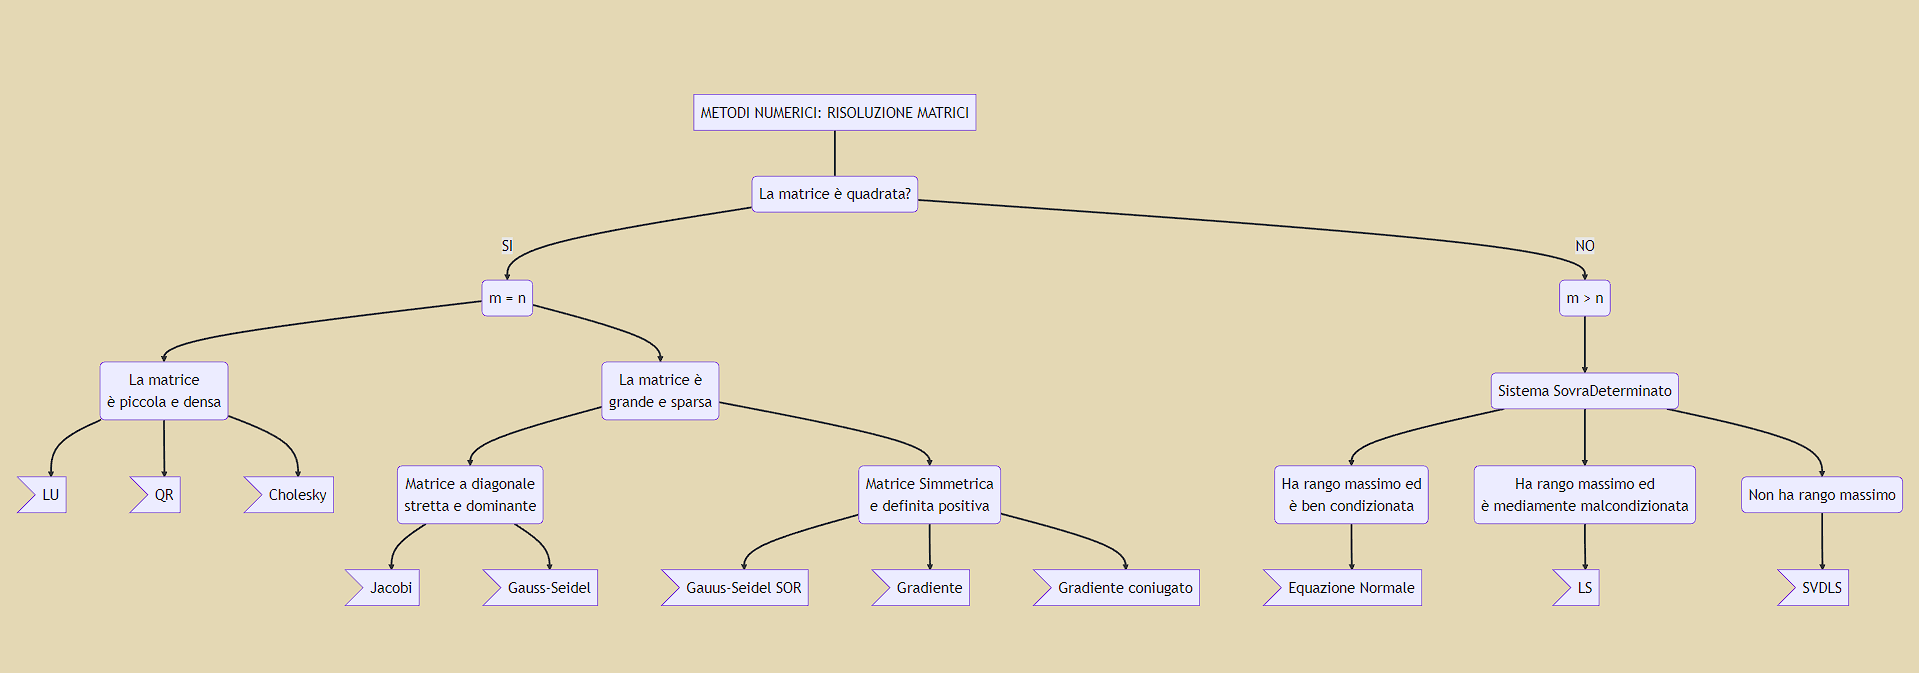
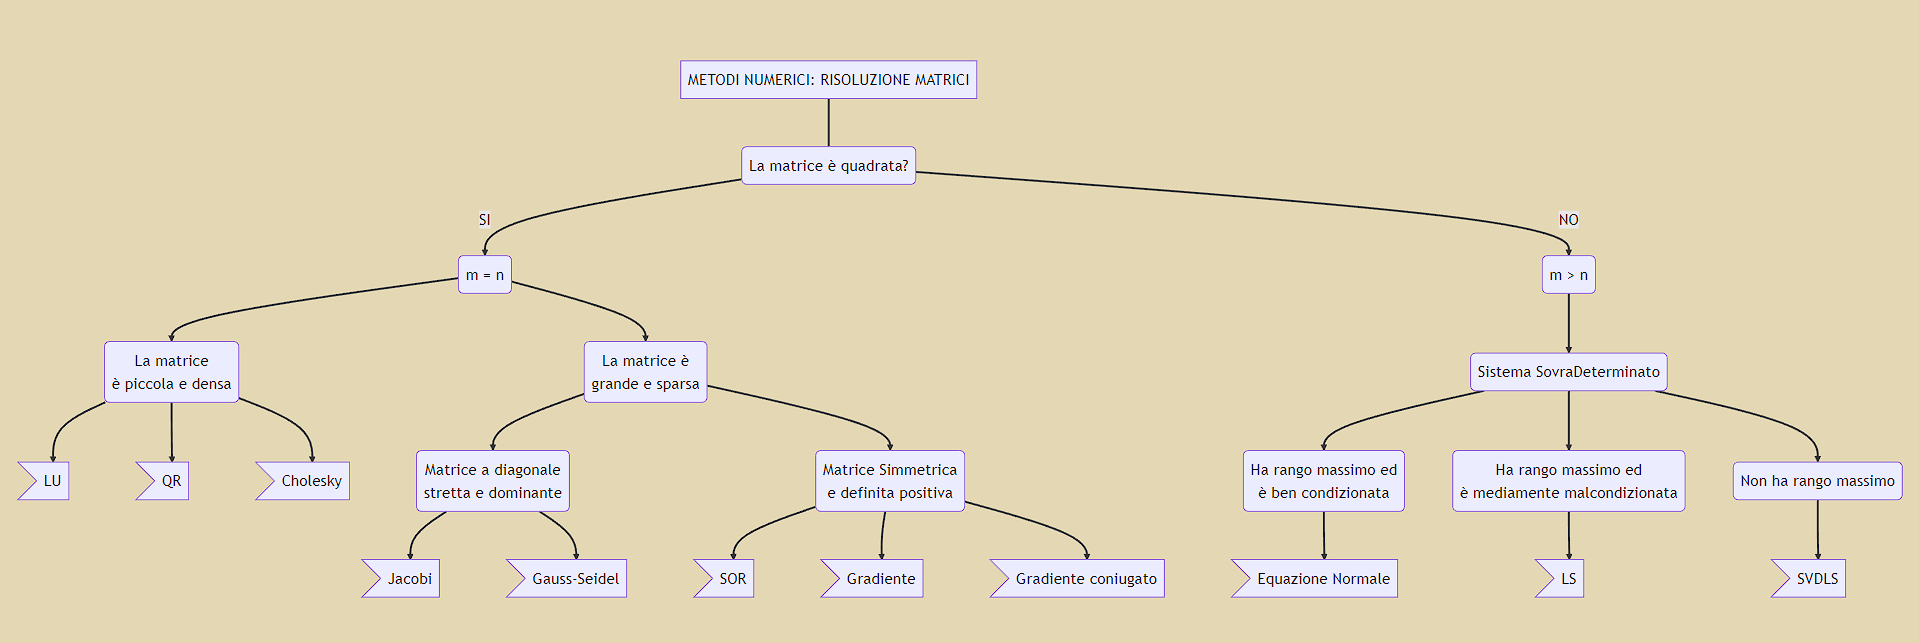
Jacobi and sor added

diff --git a/metodi_risoluzione.py b/metodi_risoluzione.py
@@ -1,13 +1,49 @@
 import numpy as np
 
-def GaussSeidel(A,B,n):
-    #A: la matrice da risolvere
-    #B: il termine noto
-    #n: il numero di iterazioni
-    x = np.zeros(np.shape(B))
+def gauss_seidel(A,b,n=50,x=None):
+    """Solves the equation Ax=b via the Gauss-Seidel iterative method."""
+    # Create an initial guess if needed
+    if x is None:
+        x = np.zeros(len(A[0]))
+    
     L = np.tril(A)
     U = A-L
+
     for i in range(n):
-        x = np.dot(np.linalg.inv(L),B-np.dot(U,x))
+        x = np.dot(np.linalg.inv(L),b-np.dot(U,x))
     return x
 
+def jacobi(A,b,n=50,x=None):
+    """Solves the equation Ax=b via the Jacobi iterative method."""
+    # Create an initial guess if needed                                                                                                                                                            
+    if x is None:
+        x = np.zeros(len(A[0]))
+                                                                                                                                                                   
+    D = np.diag(A)
+    R = A - np.diagflat(D)
+                                                                                                                                                                         
+    for i in range(n):
+        x = (b - np.dot(R,x)) / D
+    return x
+
+def sor_solver(A, b, w, tollerance, x=None):
+    """Solves the equation Ax=b via Succesive Over Relaxation Method."""
+
+    """ w: relaxation factor (typically 0 < w < 2)
+        tollerance: the amount of error accepted
+    """
+    # Create an initial guess if needed                                                                                                                                                            
+    if x is None:
+        x = np.zeros(len(A[0]))
+
+    residual = np.linalg.norm(np.matmul(A, x) - b)
+    while residual > tollerance:
+        for i in range(A.shape[0]):
+            sigma = 0
+        for j in range(A.shape[1]):
+            if j != i:
+                sigma += A[i][j] * x[j]
+        x[i] = (1 - w) * x[i] + (w / A[i][i]) * (b[i] - sigma)
+        residual = np.linalg.norm(np.matmul(A, x) - b)
+        #print('Residual: {0:10.6g}'.format(residual))
+    return x
